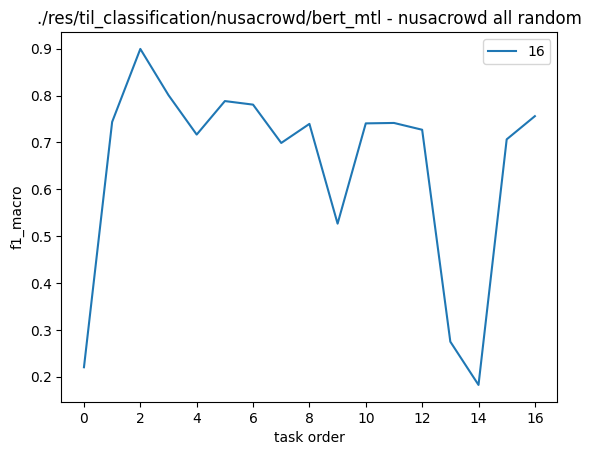
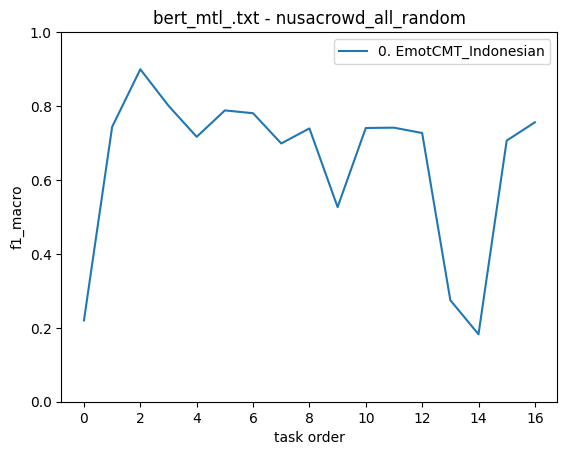
update viz 25-28 exp_id

diff --git a/src/utils.py b/src/utils.py
@@ -510,18 +510,16 @@ def visualize(dir_name, exp_id, output, case_name, task):
       if 'mtl' in output: # if model is MTL, only show last line
         try:
             if 'avg' in metrics:
-                base_metrics = metrics.replace('avg_', '')
-                base_df = pd.read_csv(get_filename(dir_name, exp_id, output, base_metrics), sep="\s+", names=[i for i in range (len(tasks_df['Task']))])
-                np.savetxt(output + f'progressive.{metrics}.' + str(exp_id), get_average(base_df),'%.4f',delimiter='\t')
-                df = pd.read_csv(get_filename(dir_name, exp_id, output, metrics), sep="\s+", names=[i for i in range (len(tasks_df['Task']))])
-
+                pass 
             else:
                 df = pd.read_csv(get_filename(dir_name, exp_id, output, metrics), sep="\s+", names=[i for i in range (len(tasks_df['Task']))])
+                df = df.drop(range(16))
+                df.transpose().plot()
         except:
             print("File not found")
         
-        df = df.drop(range(16))
-        df.transpose().plot()
+        # df = df.drop(range(16))
+        # df.transpose().plot()
       
       else: # if model is not MTL, show all line
         try:
@@ -551,4 +549,4 @@ def visualize(dir_name, exp_id, output, case_name, task):
       plt.show()
       plt.close()
       
-visualize('', 20, 'res/til_classification/nusacrowd/20 - bert_frozen_ewc_.txt/bert_frozen_ewc_.txt', 'nusacrowd_all_random', 'nusacrowd')
+visualize('', 28, 'res/til_classification/nusacrowd/28 - bert_mtl_.txt/bert_mtl_.txt', 'nusacrowd_all_random', 'nusacrowd')
